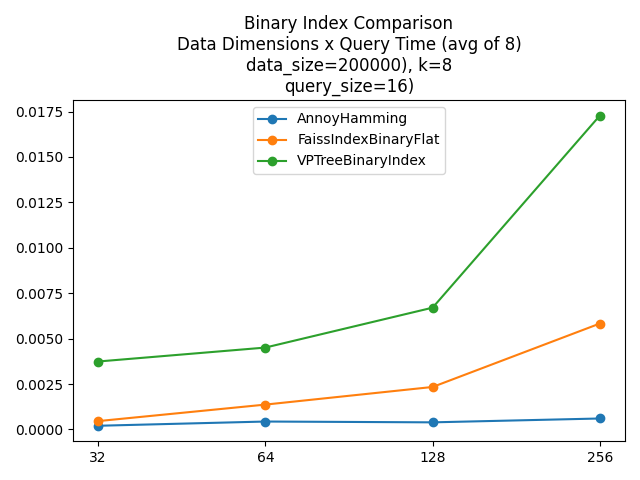
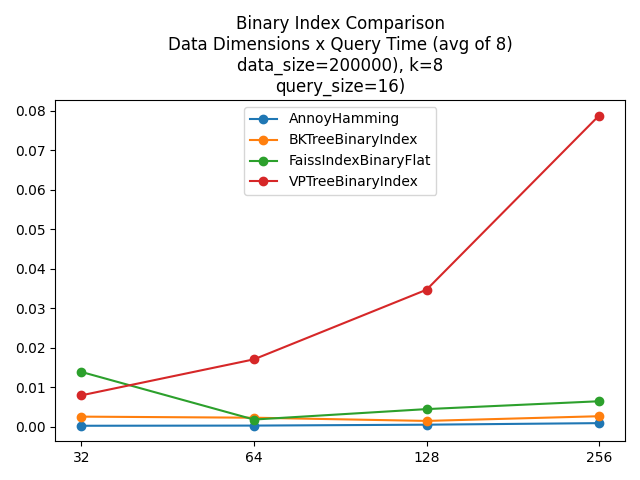
Feat added bk tree benchmark and docs

diff --git a/pynear/benchmark/index_adapters.py b/pynear/benchmark/index_adapters.py
@@ -19,6 +19,7 @@ def create_index_adapter(index_name: str):
         "AnnoyManhattan": AnnoyManhattanAdapter,
         "AnnoyHamming": AnnoyHammingAdapter,
         "SKLearnL2": SKLearnL2Adapter,
+        "BKTreeBinaryIndex": PyNearBKTreeAdapter,
         "VPTreeL2Index": pynear.VPTreeL2Index,
         "VPTreeL1Index": pynear.VPTreeL1Index,
         "VPTreeBinaryIndex": pynear.VPTreeBinaryIndex,
@@ -28,7 +29,7 @@ def create_index_adapter(index_name: str):
         raise ValueError(f"Index name {index_name} not supported")
 
     if index_name.startswith("VPTree"):
-        return PyNearAdapter(index_name)
+        return PyNearVPAdapter(index_name)
 
     return mapper[index_name]()
 
@@ -52,7 +53,7 @@ class IndexAdapter(ABC):
         pass
 
 
-class PyNearAdapter(IndexAdapter):
+class PyNearVPAdapter(IndexAdapter):
     def __init__(self, pyvp_index_name: str):
         self._index = None
         self._pyvp_index_name = pyvp_index_name
@@ -70,6 +71,17 @@ class PyNearAdapter(IndexAdapter):
     def _search_implementation(self, query, k: int):
         self._index.searchKNN(query, k)
 
+class PyNearBKTreeAdapter(IndexAdapter):
+    def __init__(self):
+        self._index = pynear.BKTreeBinaryIndex()
+        self._dimensions = 0
+
+    def build_index(self, data: np.ndarray):
+        self._index.set(data)
+        self._dimensions = data.shape[1]
+
+    def _search_implementation(self, query, k: int):
+        self._index.find_threshold(query, self._dimensions)
 
 class FaissIndexFlatL2Adapter(IndexAdapter):
     def __init__(self):

diff --git a/docs/README.md b/docs/README.md
@@ -5,12 +5,21 @@
 PyNear has several available indexes that will use different distance functions or algorithms to perform the search.
 Available indices are:
 
+### Threshold based KNN Indices:
+
+| Index Name                     | Description                                                                                                                                                                                                                                       |
+|--------------------------------|---------------------------------------------------------------------------------------------------------------------------------------------------------------------------------------------------------------------------------------------------|
+| pynear.BKTreeBinaryIndex     | Uses AVX2 optimized Hamming distance function and [BKTree](https://en.wikipedia.org/wiki/BK-tree) algorithm to perform exact searches within a threshold distance.                                                                                                                                         |
+
+### Non Threshold based KNN Indices:
+
 | Index Name                     | Description                                                                                                                                                                                                                                       |
 |--------------------------------|---------------------------------------------------------------------------------------------------------------------------------------------------------------------------------------------------------------------------------------------------|
 | pynear.VPTreeL2Index         | Uses AVX2 optimized L2 (euclidean norm) distance function and VPTree algorithm to perform exact searches.                                                                                                                                         |
 | pynear.VPTreeL1Index         | Uses L1 (manhattan) distance function and VPTree algorithm to perform exact searches.                                                                                                                                                             |
-| pynear.VPTreeBinaryIndex     | Uses AVX2 optimized Hamming distances function and VPTree algorithm to perform exact searches. Supports 16, 32, 64, 128 and 256 bit dimensional vectors only.                                                                                                                                                     |
+| pynear.VPTreeBinaryIndex     | Uses AVX2 optimized Hamming distance function and VPTree algorithm to perform exact searches. Supports 16, 32, 64, 128 and 256 bit dimensional vectors only.                                                                                                                                                     |
 | pynear.VPTreeChebyshevIndex  | Uses [Chebyshev](https://en.wikipedia.org/wiki/Chebyshev_distance) distance function and VPTree algorithm to perform exact searches. |
+
 
 ## Usage example
 
@@ -39,6 +48,25 @@ k = 2
 vptree = pynear.VPTreeBinaryIndex()
 vptree.set(data)
 vptree_indices, vptree_distances = vptree.searchKNN(queries, k)
+```
+
+#### pynear.BKTreeBinaryIndex
+
+```python
+np.random.seed(seed=42)
+
+dimension = 32 # 32 bytes are 256 bit dimensional vectos
+num_points = 2021
+data = np.random.normal(scale=255, loc=0, size=(num_points, dimension)).astype(dtype=np.uint8)
+
+num_queries = 8
+queries = np.random.normal(scale=255, loc=0, size=(num_queries, dimension)).astype(dtype=np.uint8)
+
+vptree = pynear.BKTreeBinaryIndex()
+vptree.set(data)
+
+# To search using maximum threshold use dimension * 8 (the maximum distance) or set any other threshold
+indices, distances, keys = tree.find_threshold(data, dimensions * 8)
 ```
 
 For convenience, apart from `searchKNN` function, vptree also provides `search1NN` for searching the closest nearest neighbor.

diff --git a/README.md b/README.md
@@ -1,6 +1,6 @@
 # Introduction
 
-PyNear is a python library, internally built in C++, for efficient KNN search using metric distance function such as L2 distance (see VPTreeL2Index) or Hamming distances (VPTreeBinaryIndex) as well as other distance functions. It uses AVX2 instructions to optimize distance functions so to improve search performance.
+PyNear is a python library, internally built in C++, for efficient KNN search using metric distance function such as L2 distance (see VPTreeL2Index) or Hamming distances (VPTreeBinaryIndex and BKTreeBinaryIndex) as well as other distance functions. It uses AVX2 instructions to optimize distance functions so to improve search performance.
 
 PyNear aims providing different efficient algorithms for nearest neighbor search. One of the differentials of PyNear is the adoption of [Vantage Point Tree](./docs/vptrees.md) in order to mitigate course of dimensionality for high dimensional features (see VPTree* indices for more information in [docs](./docs/README.md)).
 
